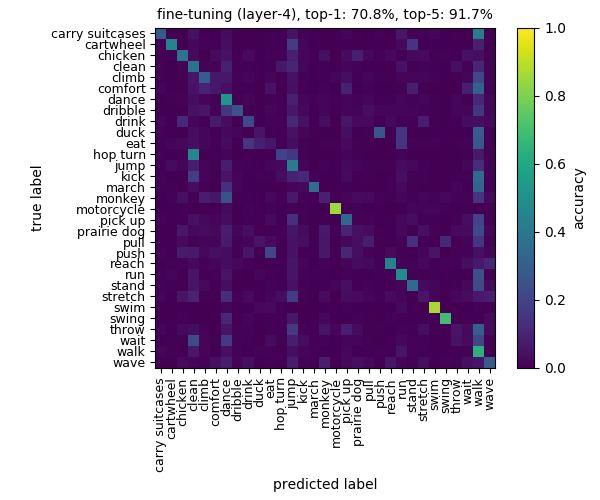
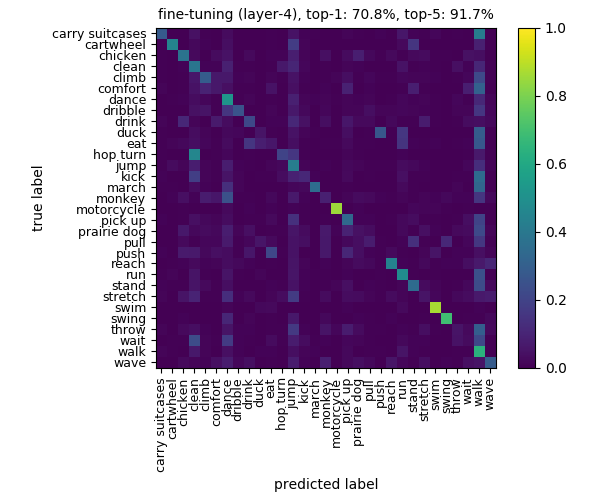
Add loss plotter

diff --git a/util_scripts/plotter.py b/util_scripts/plotter.py
@@ -1,0 +1,68 @@
+import argparse
+import matplotlib.pyplot as plt
+import numpy as np
+
+
+def plot_loss(log_train, log_valid, output=None, lim_loss=None, lim_acc=None):
+    train_data = np.loadtxt(log_train, skiprows=1)
+    epoch = train_data[:,0]
+    train_loss = train_data[:,1]
+    train_acc = train_data[:,2]
+    lr = train_data[:,3]
+
+    valid_data = np.loadtxt(log_valid, skiprows=1)
+    valid_loss = valid_data[:,1]
+    valid_acc = valid_data[:,2]
+    
+    fig = plt.figure(figsize=(6,4))
+    ax1 = plt.subplot2grid((4,1), (0,0), rowspan=3)
+    ax3 = plt.subplot2grid((4,1), (3,0))
+    cmap = plt.get_cmap('tab10')
+    ax1.plot(epoch, train_loss, '-', c=cmap(0), lw=1, label='train_loss')
+    ax1.plot(epoch, valid_loss, '--', c=cmap(0), lw=1, label='valid_loss')
+    ax1.set_ylabel('loss', color=cmap(0))
+    if lim_loss:
+        ax1.set_ylim(*lim_loss)
+    ax1.set_yscale('log')
+    ax1.tick_params(axis='x', labelbottom=False)
+    ax1.legend(loc='lower right', fontsize=8)
+    
+    ax2 = ax1.twinx()
+    ax2.plot(epoch, train_acc, '-', c=cmap(1), lw=1, label='train_acc')
+    ax2.plot(epoch, valid_acc, '--', c=cmap(1), lw=1, label='valid_acc')
+    ax2.set_ylabel('accuracy', color=cmap(1))
+    if lim_acc:
+        ax2.set_ylim(*lim_acc)
+    ax2.set_yscale('log')
+    ax2.legend(loc='upper right', fontsize=8)
+    
+    ax3.plot(epoch, lr, lw=1)
+    ax3.set(xlabel='epoch', ylabel='lr', yscale='log')
+    plt.subplots_adjust(hspace=0, right=0.85)
+
+    if output:
+        fig.savefig(output)
+
+
+def get_opts():
+    p = argparse.ArgumentParser()
+    p.add_argument('--log_train', type=str, default='train.log', help='path to train log (*.log)')
+    p.add_argument('--log_valid', type=str, default='val.log', help='path to valid log (*.log)')
+    p.add_argument('--loss_max', type=float, default=None, help='set the maximum loss axis')
+    p.add_argument('--loss_min', type=float, default=None, help='set the minimum loss axis')
+    p.add_argument('--accuracy_max', type=float, default=None, help='set the maximum accuracy axis')
+    p.add_argument('--accuracy_min', type=float, default=None, help='set the minimum accuracy axis')
+    p.add_argument('--output', type=str, default=None, help='path to the output (*.png)')
+    return p.parse_args()
+
+
+if __name__ == '__main__':
+    opt = get_opts()
+    plot_loss(
+        opt.log_train,
+        opt.log_valid,
+        opt.output,
+        [opt.loss_min, opt.loss_max],
+        [opt.accuracy_min, opt.accuracy_max]
+    )
+    

diff --git a/util_scripts/makehuman_eval.py b/util_scripts/makehuman_eval.py
@@ -96,8 +96,7 @@ class MakeHumanResults:
         ax.set_ylabel('true label')
         ax.set_yticks(range(n))
         ax.set_yticklabels(labels, fontsize=9)
-        cbar = fig.colorbar(im, ax=ax)
-        cbar.ax.set_ylabel('accuracy')
+        fig.colorbar(im, ax=ax)
         fig.tight_layout()
         
         if output:
